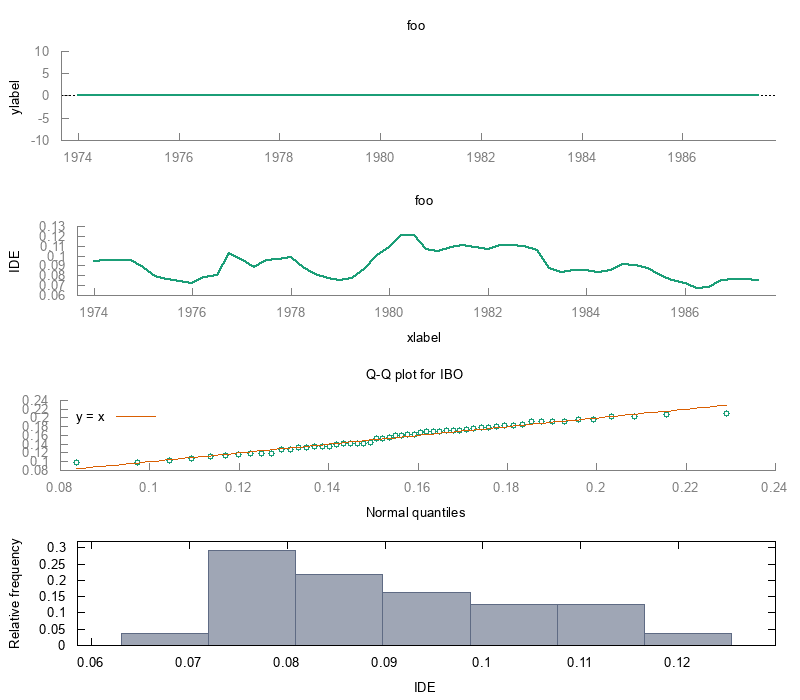
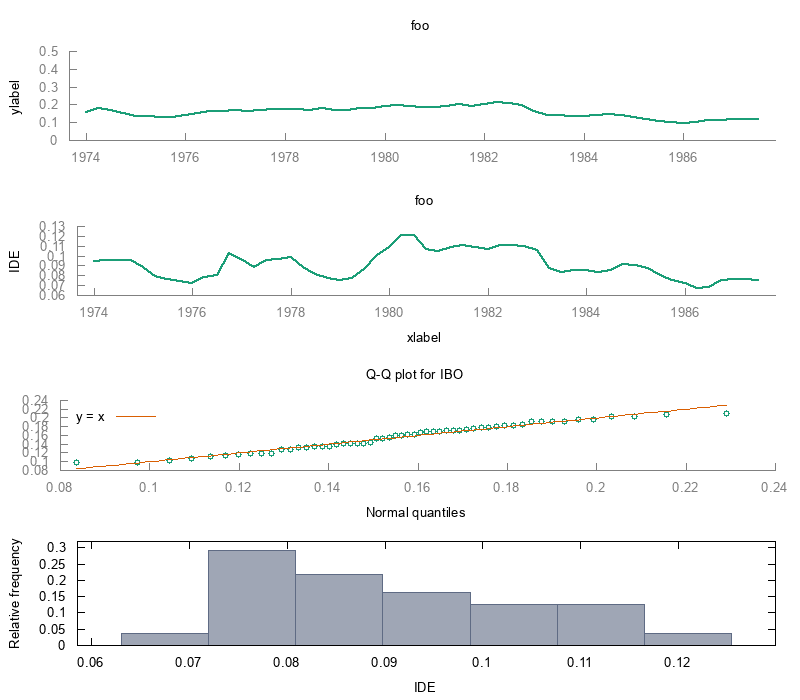
update url to plot

diff --git a/README.md b/README.md
@@ -21,10 +21,12 @@ include multiplot.gfn
 bundle options = defbundle("FONT_SIZE", 10, "PLOT_HEIGHT", 700)
 
 # Call various gretl plots and store each one as a gnuplot-file (mimetype "*.gp")
-gnuplot IBO --output=tf1.gp --time-series --with-lines { set title "foo" ; set yrange[-10:10]; set ylabel "ylabel"; }
+gnuplot IBO --output=tf1.gp --time-series --with-lines { set title "foo" ; set yrange[0:0.5]; \
+  set ylabel "ylabel"; }
 gnuplot IDE --output=tf2.gp --time-series --with-lines { set title "foo" ; set xlabel "xlabel"; }
 qqplot IBO --output=tf3.gp
 freq IDE --plot=tf4.gp
+
 
 # Multiplot with 4 rows + png output
 # Pass the full path to each of the gp-files supposed to be added to the multiplot
@@ -38,7 +40,7 @@ Gin = multiplot(defarray("tf1.gp","tf2.gp","tf3.gp","tf4.gp"),\
 
 The resulting figure will look (similar) to this one:
 
-[sample]: https://raw.githubusercontent.com/atecon/multiplot/master/screenshot.png "Example"
+[sample]: https://github.com/atecon/multiplot/raw/master/screenshot.png "Example"
 
 
 # PUBLIC FUNCTION
